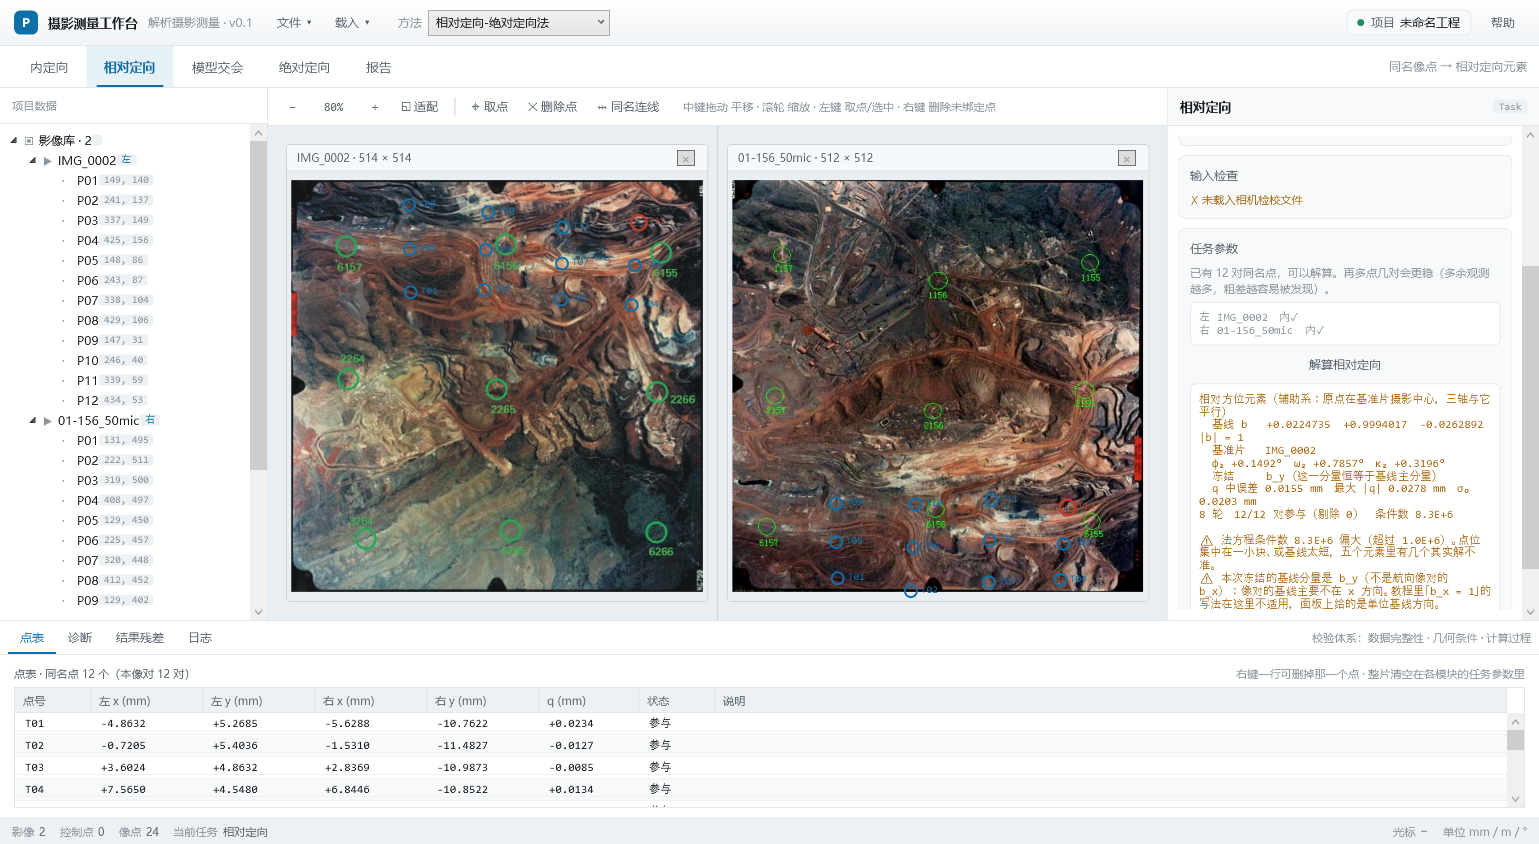
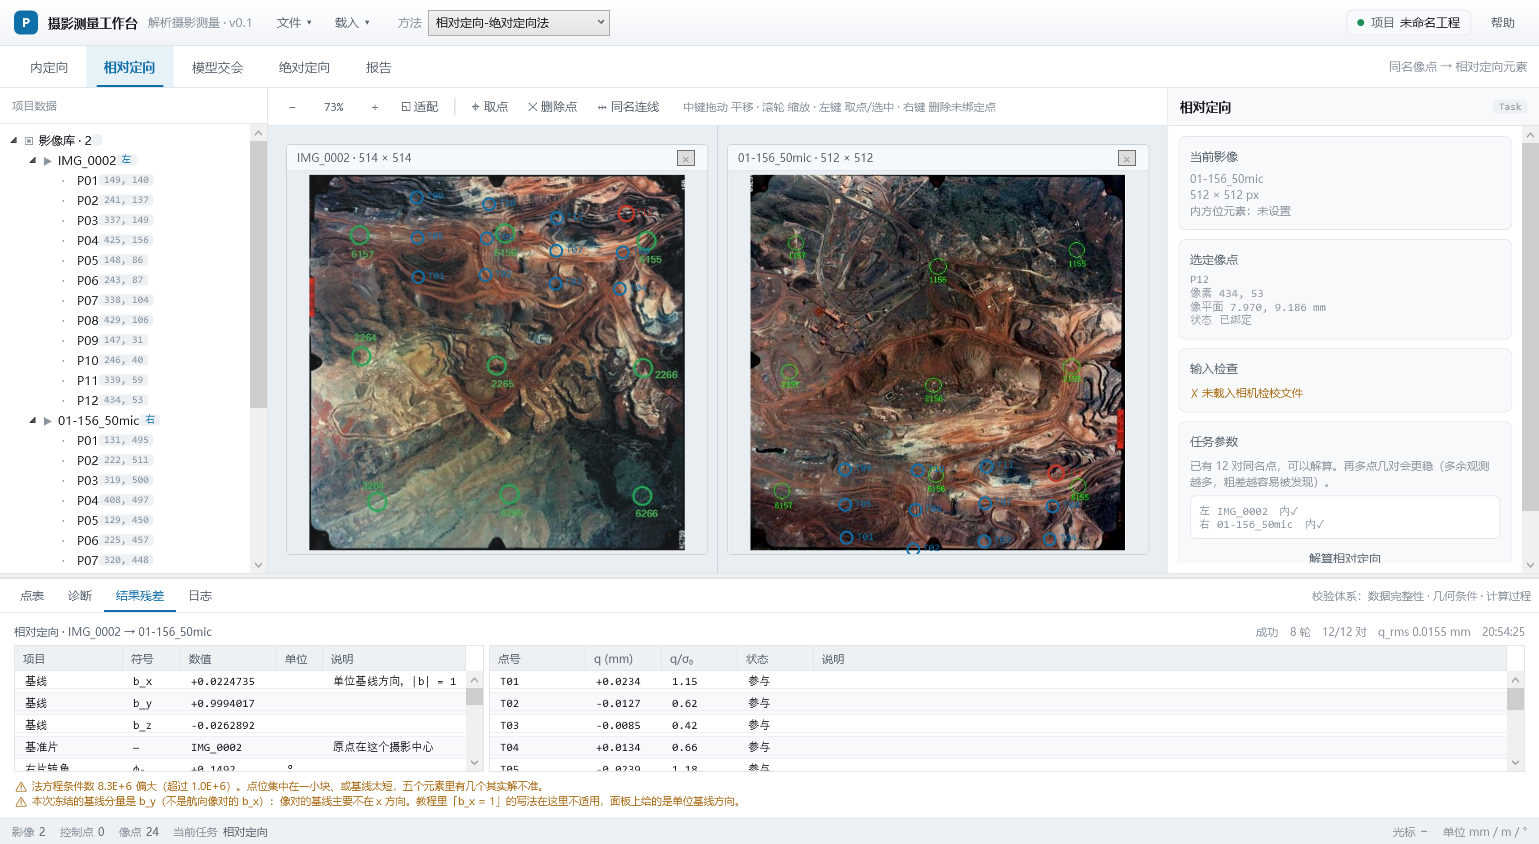
文档：结果页改版写进界面设计规范（4.4 与 ADR-20），截图重拍
- 界面设计规范 §4.4 重写：四个页签的高度与「结果残差」的两张表、列名、染色规则、
  页脚口径、失败也进这一页、以及「这一页是快照」；底部面板高度改为可拖 + 出结果撑到 240 px
- 新增 ADR-20 记录这次决策与代价（结果变快照、解完自动切页签）
- §4.3 如实标注：按选中实体切换检查器尚未实现，右栏现在是固定的四块
- 路线图：当前状态、M6 界面一节、变更记录；README 当前状态
- 重构计划 §2.3 加注：三张 flow 截图已按新界面重拍，与那里记录的历史哈希不再相同
- 截图：Docs/images/results-panel.png（后方交会 16 行元素 + 15 行残差）、
  Docs/images/m6-relative-panel.png 重拍（相对定向 15 行元素 + 12 行上下视差）；
  Design/screenshots/flow-a/b/c.png 一并重拍（该目录不进仓库）

diff --git a/Docs/路线图.md b/Docs/路线图.md
@@ -26,7 +26,7 @@
 | | |
 |---|---|
 | 当前阶段 | **M1–M5 完成；M6 完成（内核 + 托管层 + 界面面板 + 点表持久化）；界面已按作业方法分流；结构重构六步全部完成** —— 下一步是 M6.5 模型交会 |
-| 已完成 | M1 / M2 / M3 / M4 全部；M5 的 DLL、七段验收与界面「前方交会」面板；M6 的 C++ 内核（七段自检）、托管层 `RelativeOrientationTask`、`Snap --relative` 25 项端到端、界面「相对定向」面板与点表「同名点」、`.pht` v3（同名点与相对定向结果落盘）；界面「作业方法」下拉（三种方法、模块栏按方法过滤）；结构重构第 1–6 步（见[重构计划 §9](重构计划.md)） |
+| 已完成 | M1 / M2 / M3 / M4 全部；M5 的 DLL、七段验收与界面「前方交会」面板；M6 的 C++ 内核（七段自检）、托管层 `RelativeOrientationTask`、`Snap --relative` 25 项端到端、界面「相对定向」面板与点表「同名点」、`.pht` v3（同名点与相对定向结果落盘）；界面「作业方法」下拉（三种方法、模块栏按方法过滤）；**界面改版：解算结果从右栏移到「结果残差」页（左元素表 + 右残差表），底部面板加可拖分隔条**；结构重构第 1–6 步（见[重构计划 §9](重构计划.md)） |
 | 进行中 | M6.5 模型交会未开工；M6 剩下双图立体联动 |
 | 阻塞项 | `Data/` 里只有 `01-156` 一张片，仓库内跑不出真实的同名点对——你自己手上有那对片，用界面测即可。M6.5 / M7 未开工 |
 
@@ -125,7 +125,7 @@
 - **自检**：
   - `native/build/bin/Release/pgm_intersection_test.exe`，七段检查（DLL 侧）；
   - `Snap --intersect`，十四项检查（托管侧）：精确像点误差 $9.1\times10^{-13}$ m、交会角 49.75°、基线 2318.255 m、$N\cdot|d|$ 与距离自洽、整像素量化后 0.27 m，外加五条闸门；
-  - `Snap --intersect-demo`，界面端到端：两张片各点一下 → 按解算 → 结果与真值差 0.527 m、面板上确实显示了坐标。
+  - `Snap --intersect-demo`，界面端到端：两张片各点一下 → 按解算 → 结果与真值差 0.527 m、结果页上确实显示了坐标（断言改成读结果页的行与列）。
 - **托管层**：
   - `Core/NativeAbi.cs` 加 `CameraPose` / `IntersectionInput`（144 字节，内嵌两个 48 字节姿态）/ `IntersectionOutput`（144 字节），用 `Snap --abi` 逐字段对表；
   - `Core/NativeAlgorithms.IntersectRays` 做封装与解码；
@@ -142,14 +142,14 @@
 - **验收**：Q 中误差 < 0.01 mm；≥6 对同名点收敛；联动开关关闭时两视窗完全独立。
 - **已完成（C++ 内核）**：`pgm_relative_orientation` —— 共面条件一般式迭代、规准冻结基线主分量、初值取平均视差方向、**留一法粗差剔除**（剔掉后 $\sigma_0$ 缩 2.5 倍才算，最多 4 轮、剔完至少留 7 对）、$\sigma_0$ 与 $q_{\mathrm{rms}}$ 两套残差、条件数与冻结分量都上报。设计见[相对定向算法 §11](相对定向算法.md)。
 - **已完成（托管层）**：`NativeAlgorithms.SolveRelativeOrientation`（ABI 封装）、`Core/Tasks/RelativeOrientationTask`（攒点对、闸门、文案、写回工程）、`Snap --relative`（25 项端到端自检，含"存盘→读回"）、`Snap --abi` 覆盖两个新结构体（13 个 struct / 7 个 DllImport）。
-- **已完成（界面）**：右栏「相对定向」面板（配对提示、像对与点对数、解算、结果与提醒）；点表新增「同名点」表（左/右像平面坐标、$q$、状态）；模块切到相对定向时只画同名点与临时点这一层。
+- **已完成（界面）**：右栏「相对定向」面板（配对提示、像对与点对数、解算按钮）；点表新增「同名点」表（左/右像平面坐标、$q$、状态）；模块切到相对定向时只画同名点与临时点这一层。解算结果不摆右栏，统一进底部「结果残差」页（见[界面设计规范 4.4](界面设计规范.md)）。
 - **点对进点表**：同名点随工程存进 `.pht`（v3），解算结果写在 `pairs[].relative`、逐点 $q$ 与剔除标记写在 `tiePoints[]`。字段字典见[工程文件格式](工程文件格式.md)。
 - **与教材的差别**：教材固定 $b_x=B$ 且初值取 $\mathbf b=(1,0,0)$，隐含航向像对。**旁向像对（30% 旁向重叠）会解不出来**：$b_x\to0$ 时那一列塌成零，实测会停在残差不为零的假驻点。改成"初值取平均视差方向 + 规准冻结基线主分量"后，旁向与纯旁向像对都是 4 轮收敛；航向像对算出来仍落在 $b_x$ 上，自动退回教材形式。
 - **与教材的差别（粗差）**：教材/常见写法按 $|q|>3\sigma_0$ 剔点，这个判据 $n\le14$ 时剔不掉自己（详见[相对定向算法 §10](相对定向算法.md)）。改成留一法之后，$1\ \text{mm}$ 与 $2\ \text{mm}$ 的错点都能干净剔出，干净数据一个不剔。
-- **自检**：`native/build/bin/Release/pgm_relative_orientation_test.exe`，**七段**（往返、雅可比、旁向 30%、纯旁向、噪声、退化、粗差），实测见[相对定向算法 §11](相对定向算法.md#L178) 的表；托管侧 `Snap --relative` 25 项全 PASS，界面侧 `Snap --relative-demo` 跑通「两片各点 12 次 → 点表 12 对 → 解算 → 面板出结果」。
+- **自检**：`native/build/bin/Release/pgm_relative_orientation_test.exe`，**七段**（往返、雅可比、旁向 30%、纯旁向、噪声、退化、粗差），实测见[相对定向算法 §11](相对定向算法.md#L178) 的表；托管侧 `Snap --relative` 25 项全 PASS，界面侧 `Snap --relative-demo` 跑通「两片各点 12 次 → 点表 12 对 → 解算 → 结果页 15 行元素 + 12 行上下视差」。
 - **待办**：双图立体联动（验收里那一条）还没做；`Data/` 里那对片是缩略图（512 见方），真实量测精度要在你自己的原片上测。
 
-  ![相对定向面板](images/m6-relative-panel.png)
+  ![相对定向：结果页](images/m6-relative-panel.png)
 
 ### M6.5 模型交会 ⬜（原先没有归属，2026-10 补）
 
@@ -234,6 +234,7 @@ M5 只依赖 M4；M6/M6.5/M7 独立成支。若时间不够，这一支可整体
 | 2026-10-21 | 框标坐标改为可手工录入与改正（`FiducialEditorWindow`）；方位提示仅在框标大致对称时显示；`.cmr` 按 E-FOTO 标准解析，并用真实 `hammer.cmr` 做回归 |
 | 2026-10-21 | **M2 完成**。真实数据 `01-155` / `01-156` 手工点 8 个框标，两片 δ 相差 0.004%，σ₀ 0.012–0.020 mm；确认这批 JPG 像元为 0.04503 而非文档标称 0.0445。基准写入 `Data/real/README.md` |
 | 2026-10-28 | **M6 完成**：相对定向内核（七段自检）+ 托管层 + 界面面板 + 点表「同名点」+ `.pht` v3。点对进点表并随工程落盘，字段字典写进[工程文件格式](工程文件格式.md)。修两个真 bug：`memset` 把调用方预填的逐点缓冲区清掉（逐点 q / 剔除标记从来没写出来过）、3σ₀ 粗差判据在小冗余时剔不掉自己 |
+| 2026-10-28 | **界面改版**：解算结果不再摆右栏，四个模块统一进底部「结果残差」页（左元素表 + 右残差表，列随模块变、偏大的行整行染色）。底部面板加可拖分隔条，出结果时自动撑到 240 px。新增 `App/Format.cs` 统一数字写法，修掉"极小负数格式化成 `-+0.000000`"（`.ToString("+0.000000;-0.000000")` 在值舍入成 0 时的坑，点表 $q$ 列、光标读数、内方位提示等处早就有）。`Snap` 新增 `--interior-demo`（内定向 按钮→结果页 端到端），其余三条界面检查改看结果页的行与列 |
 
 
 

diff --git a/Docs/界面设计规范.md b/Docs/界面设计规范.md
@@ -160,8 +160,8 @@ Project 工程
 |---|---|---|
 | 数据树 | 实体层级、当前选中 | 参数输入 |
 | 工作区 | 影像显示、取点、连线、缩放平移 | 计算、结果展示 |
-| 检查器 | 当前选中实体的属性、当前任务的参数与结果 | 数据树操作 |
-| 底部 | 批量编辑、诊断、列表、日志 | 编辑影像 |
+| 检查器 | 当前选中实体的属性、当前任务的参数与提示 | 数据树操作、**解算结果**（见 4.4） |
+| 底部 | 点表、诊断、**结果与残差**、日志 | 编辑影像 |
 | 状态栏 | 计数与只读状态 | 任何按钮 |
 
 ### 4.2 中央工作区四态
@@ -192,16 +192,37 @@ Project 工程
 
 检查器可停靠（默认右栏）或浮动（无边框窗口，非模态）。浮动后内容不变，仍只显示单个选中对象。
 
+> 现状：右栏固定是「当前影像 / 选定像点 / 输入检查 / 任务参数」四块，按选中实体切换**未实现**（没有 `DataTemplate` 分发）。解算结果已从右栏移到「结果残差」页（4.4、ADR-20），右栏只剩参数与提示。
+
 ### 4.4 底部面板
 
-| 页签 | 内容 | 默认高度 |
+| 页签 | 内容 | 高度 |
 |---|---|---|
-| 点表 | 当前任务要用到的点。内定向列框标（像平面坐标 / 方位 / 像元），后方交会列控制点（地面坐标 / 类型 / 像平面坐标 / 像素 / 残差）。选中一行即把该点设为"下一个要点的点" | 272 px |
+| 点表 | 当前任务要用到的点。内定向列框标（像平面坐标 / 方位 / 像元），后方交会列控制点（地面坐标 / 类型 / 像平面坐标 / 像素 / 残差），相对定向列同名点（左右两片坐标 / $q$ / 状态）。选中一行即把该点设为"下一个要点的点" | 198 px |
 | 诊断 | 三层校验结果 | 198 px |
-| 结果残差 | 当前任务的逐点残差表 | 198 px |
+| 结果残差 | **所有模块**解出的元素（左表）与逐点残差（右表），见下 | 198 px，出结果时撑到 240 px |
 | 日志 | 时间戳 + 级别 + 消息 | 198 px |
 
-切到点表时面板自动加高，切回其他页签恢复原高度。
+面板高度用上方那条分隔条拖（结果表动辄十几行，写死 198 px 只够看三行）。结果页第一次出内容时自动撑到 240 px；用户拖过之后就不再自动改——手动调过的高度不该被程序抢回去。
+
+> 设计稿写的是"切到点表自动加高到 272 px、切回恢复"。未实现：同一块高度被四个页签共用，自动改高度会与用户拖动打架，实测也更烦人。现在只有"出结果时撑一次"这一条自动行为。
+
+**结果残差页：两张表，四个模块一个样子**
+
+解算结果**不放右栏**（ADR-20）。这一页固定是「左元素表 + 右残差表」，四个模块共用一套排版：
+
+| 位置 | 列 | 放什么 |
+|---|---|---|
+| 左：元素表 | 项目 / 符号 / 数值 / 单位 / 说明 | 解出来的是什么：内定向的 $s_x,s_y,\delta,x_0,y_0$；后方交会的 $X_S,Y_S,Z_S,\varphi,\omega,\kappa$；前方交会的 $X,Y,Z,\gamma$；相对定向的 $\mathbf b,\varphi_2,\omega_2,\kappa_2$；外加 $\sigma_0$、迭代次数、多余观测、条件数这些"这个结果靠不靠得住"的量 |
+| 右：残差表 | 点号 / 各残差列 / 状态 / 说明 | 每个点差多少：内定向列框标 $v_x,v_y$，后方交会列控制点 $V_x,V_y,|V|,|V|/\sigma_0$，前方交会列左右两片的 $v_x,v_y$，相对定向列同名点 $q$、$q/\sigma_0$ 与是否被剔除 |
+
+- 列名与列数随模块变，行高、字号、配色只有一份。四个模块各写一套等宽文字块，判"哪个点偏大"的写法就会各不相同，也没法选中、没法对齐。
+- 偏大的那一行**整行染成错误色**（框标 $5\sigma_0$、控制点 $|V|/\sigma_0>3$、同名点被判粗差），不用人拿眼睛比。
+- 页脚一行放口径与警告：后方交会的手性判定证据、相对定向的"冻结哪个基线分量""谁被剔了"、交会时两条视线差多少。这些是"敢不敢用这份结果"的依据，不属于结果本身。
+- **失败也进这一页**：左边一行"未解出/未采用"，原因写在页脚；后方交会"解出来了但没过闸门"时数值照给，但每行都标成诊断值、标题整块染红——没见过失败结果的人最容易把诊断值当解。
+- 这一页是**快照**：记的是"上一次按解算时算出的东西"，标题带任务与对象（哪张片、哪个像对），摘要带时刻。改了观测不会自动重算，要再按一次解算。没人希望删掉一个点之后结论悄悄变了。
+
+![结果残差页](images/results-panel.png)
 
 点表的列随模块切换，**不要**做成两张独立面板（ADR-16）。
 
@@ -596,6 +617,7 @@ ProjectDir/
 | ADR-17 | 视窗按模块分层画标记：内定向只画框标，后方交会只画已绑定控制点的像点 | 两组点叠在一张图上，作业员无法判断哪些属于当前任务。M3 实测中确有"内定向界面里冒出控制点符号"的问题，原因就是所有层都画 |
 | ADR-18 | **C++ 只做纯计算，数据适配（判手性、换轴、认格式、统一单位）归 `Core`** | ①共线方程应当假设输入已是干净的右手系，混进 `if (isMirrored) swap(x,y)` 这类分支，会让核心算法被特定数据源的约定污染，越维护越臃肿；②判手性只要三个点、几次乘加，纳秒级，没有性能理由下沉；③读文件、认格式、统一单位本来就在 C#，判手性是同一类知识。代价：C++ 信任调用方，上游判错它察觉不到，所以 VL-10/VL-11 兜底闸门不能撤（见 8.1） |
 | ADR-19 | **作业方法用标题栏下拉框选择，模块栏只显示所选方法的那一串步骤** | 三种方法的中间步骤不同：同一个「交会」在后方交会-前方交会法里出地面坐标，在相对定向-绝对定向法里出模型坐标。全部平铺成一行，等于让作业员自己判断哪些按钮属于同一条路，而误判不报错——只会引用一套不属于本次作业的中间结果。用下拉框后，模块栏本身就是该方法的流程，不需要额外标注并行或互斥。代价：多一个界面状态（当前方法）要维护，切换时要处理「当前模块被藏起来」的落位；且 `--module` 这类外部驱动必须连方法一起决定，已集中到 `MainWindow.SelectModuleForTooling` |
+| ADR-20 | **解算结果集中到「结果残差」页，右栏只放参数与提示**，四个模块共用「左元素表 + 右残差表」 | ①结果是拿来比、拿来抄进报告的：等宽文字块排版对不齐、选不中，还各自实现一套"哪个点偏大"；②右栏是可滚动的窄栏，结果块常落在折叠线以下，解完等于没显示，得靠 `BringIntoView` 找补；③统一成两张表后，列名随模块变、行高配色只有一份，偏大的行整行染色。代价：结果页是**快照**（改了观测要重解），且解完自动切页签会打断"边解边点"的节奏——所以只在真的解算过之后才切 |
 
 ---
 

diff --git a/Docs/重构计划.md b/Docs/重构计划.md
@@ -94,6 +94,8 @@ dotnet run --project src/Snap/Snap.csproj -c Debug --no-build -- --module 前方
 
 `Design/screenshots/flow-a.png`、`flow-b.png`、`flow-c.png` 三张截图，分别是三种作业方法下的模块栏。重构后重拍，模块栏、下拉框、提示语必须一致（SHA 逐字节比对）。
 
+> 这三张是**当时**的基线。2026-10-28 的界面改版（结果移到「结果残差」页、右栏去掉结果块、底部加分隔条）之后已重拍，与本文记录的历史哈希不再相同——那次改的是界面本身，不是重构引入的偏差。
+
 > **带影像的截图不能直接拿来比。**状态栏右端的光标读数据跟着物理鼠标走，离屏窗口又摆在本机 (0,0)，于是同一份代码 6 次跑出 3 种哈希，差异只有那一小段（实测 bbox 1223–1427 × 826–834）。第 3 步起 Snap 在截图前把 `StatusCursor` 复位成「—」，M3 连跑 4 次已有同一哈希 `90BC4989B3DC`。三张 flow 截图不含影像，本来就不受影响。
 
 ### 2.4 版本控制

diff --git a/README.md b/README.md
@@ -51,6 +51,7 @@ dotnet run --project src/App/App.csproj
 **当前状态**：M1–M5 完成。内定向 → 像平面坐标 → 控制点刺点 → 后方交会 → 前方交会这条链已经通了。
 **M6 相对定向也通了**：两张片各点同名像点（点对进点表、随工程存进 `.pht`），按一下就出
 5 个相对方位元素与 $q$ 中误差，带粗差剔除与提醒。界面按三种作业方法分流。
+四个模块的解算结果与逐点残差都在底部「结果残差」页（左元素表 + 右残差表），右栏只放参数与提示。
 结构重构的六步已全部完成（每步都要求基线逐字不变、截图逐字节相同）。
 下一步是 M6.5 模型交会。明细见[路线图](Docs/路线图.md)与[重构计划](Docs/重构计划.md)。
 
